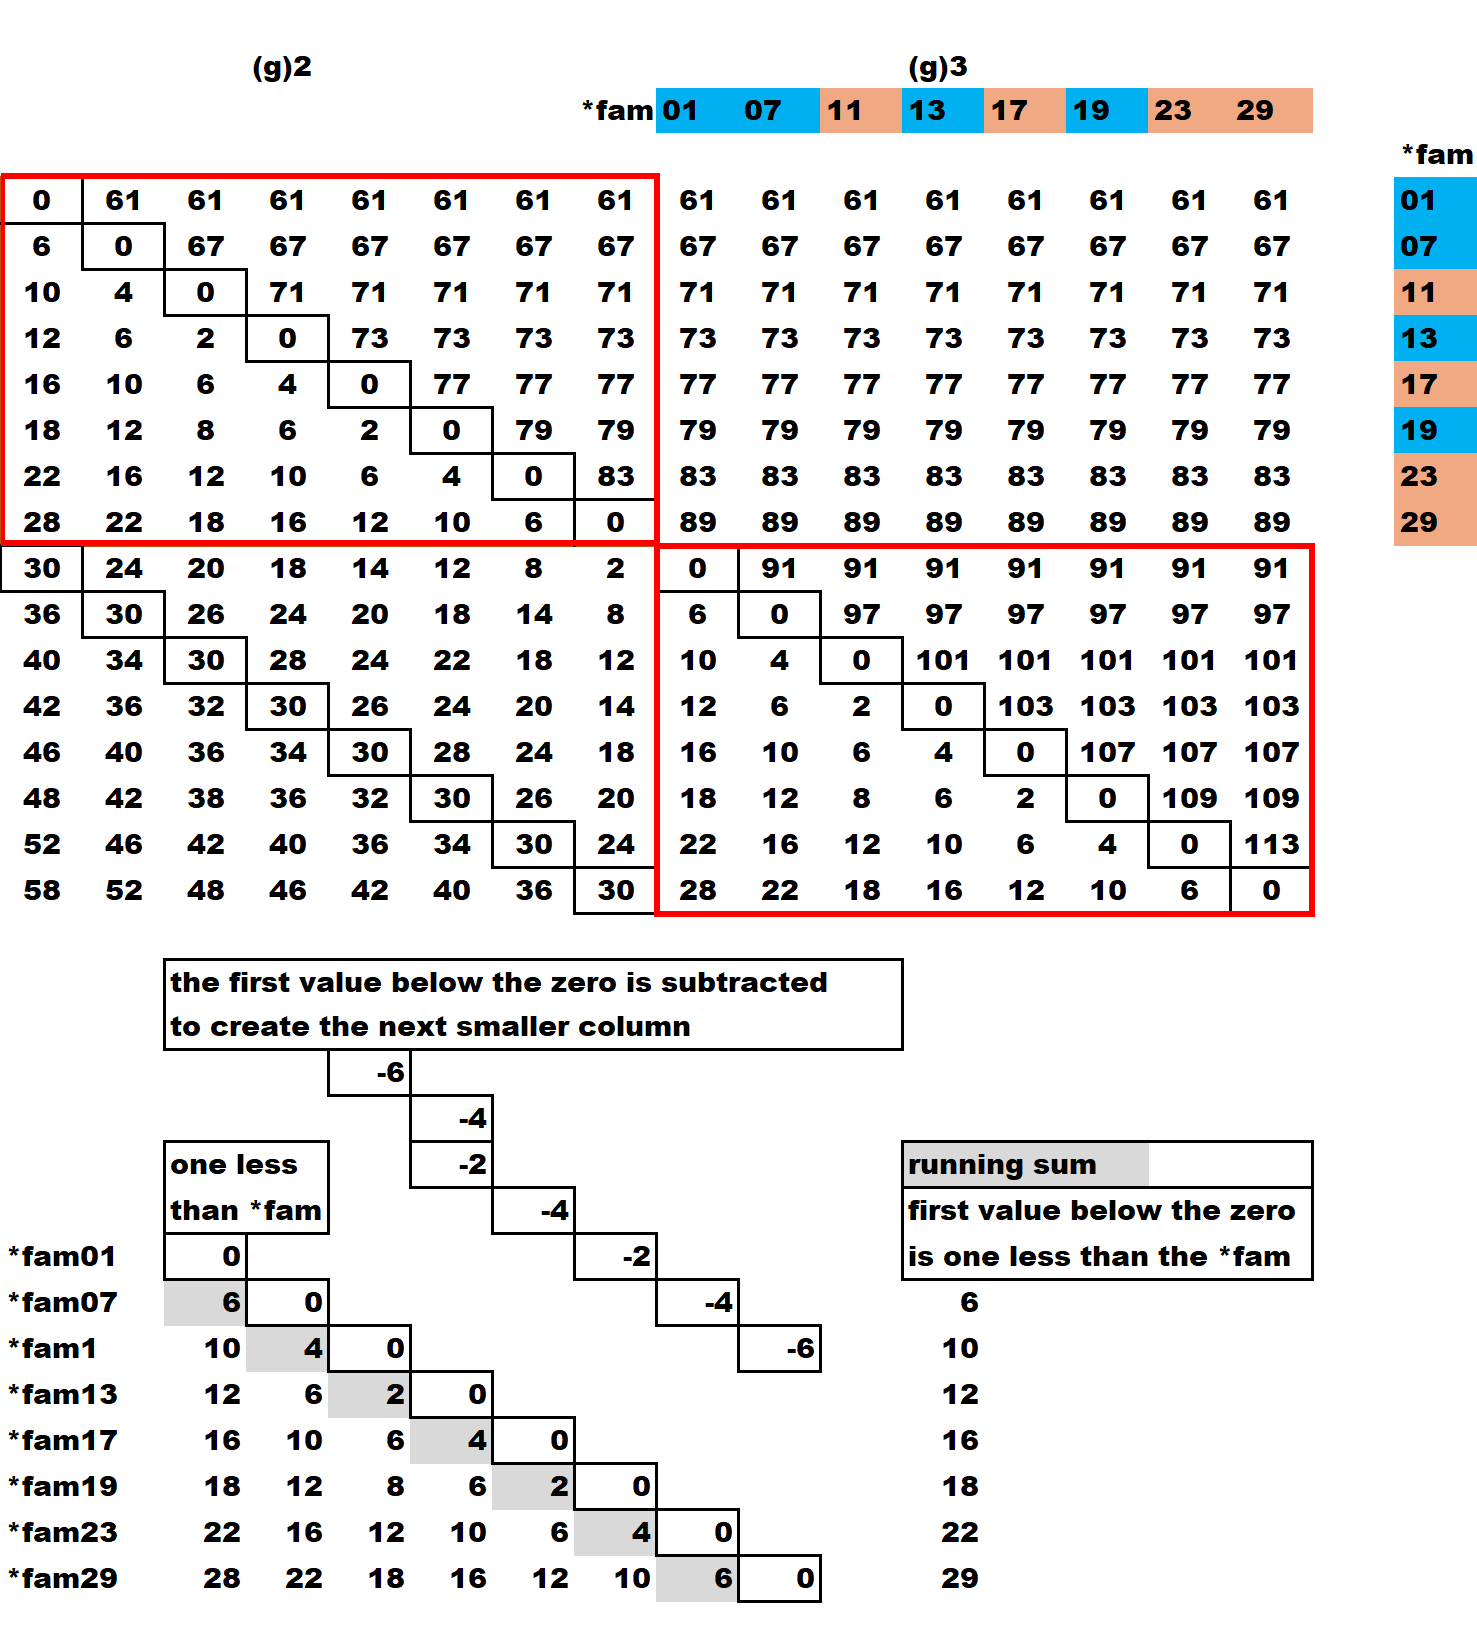
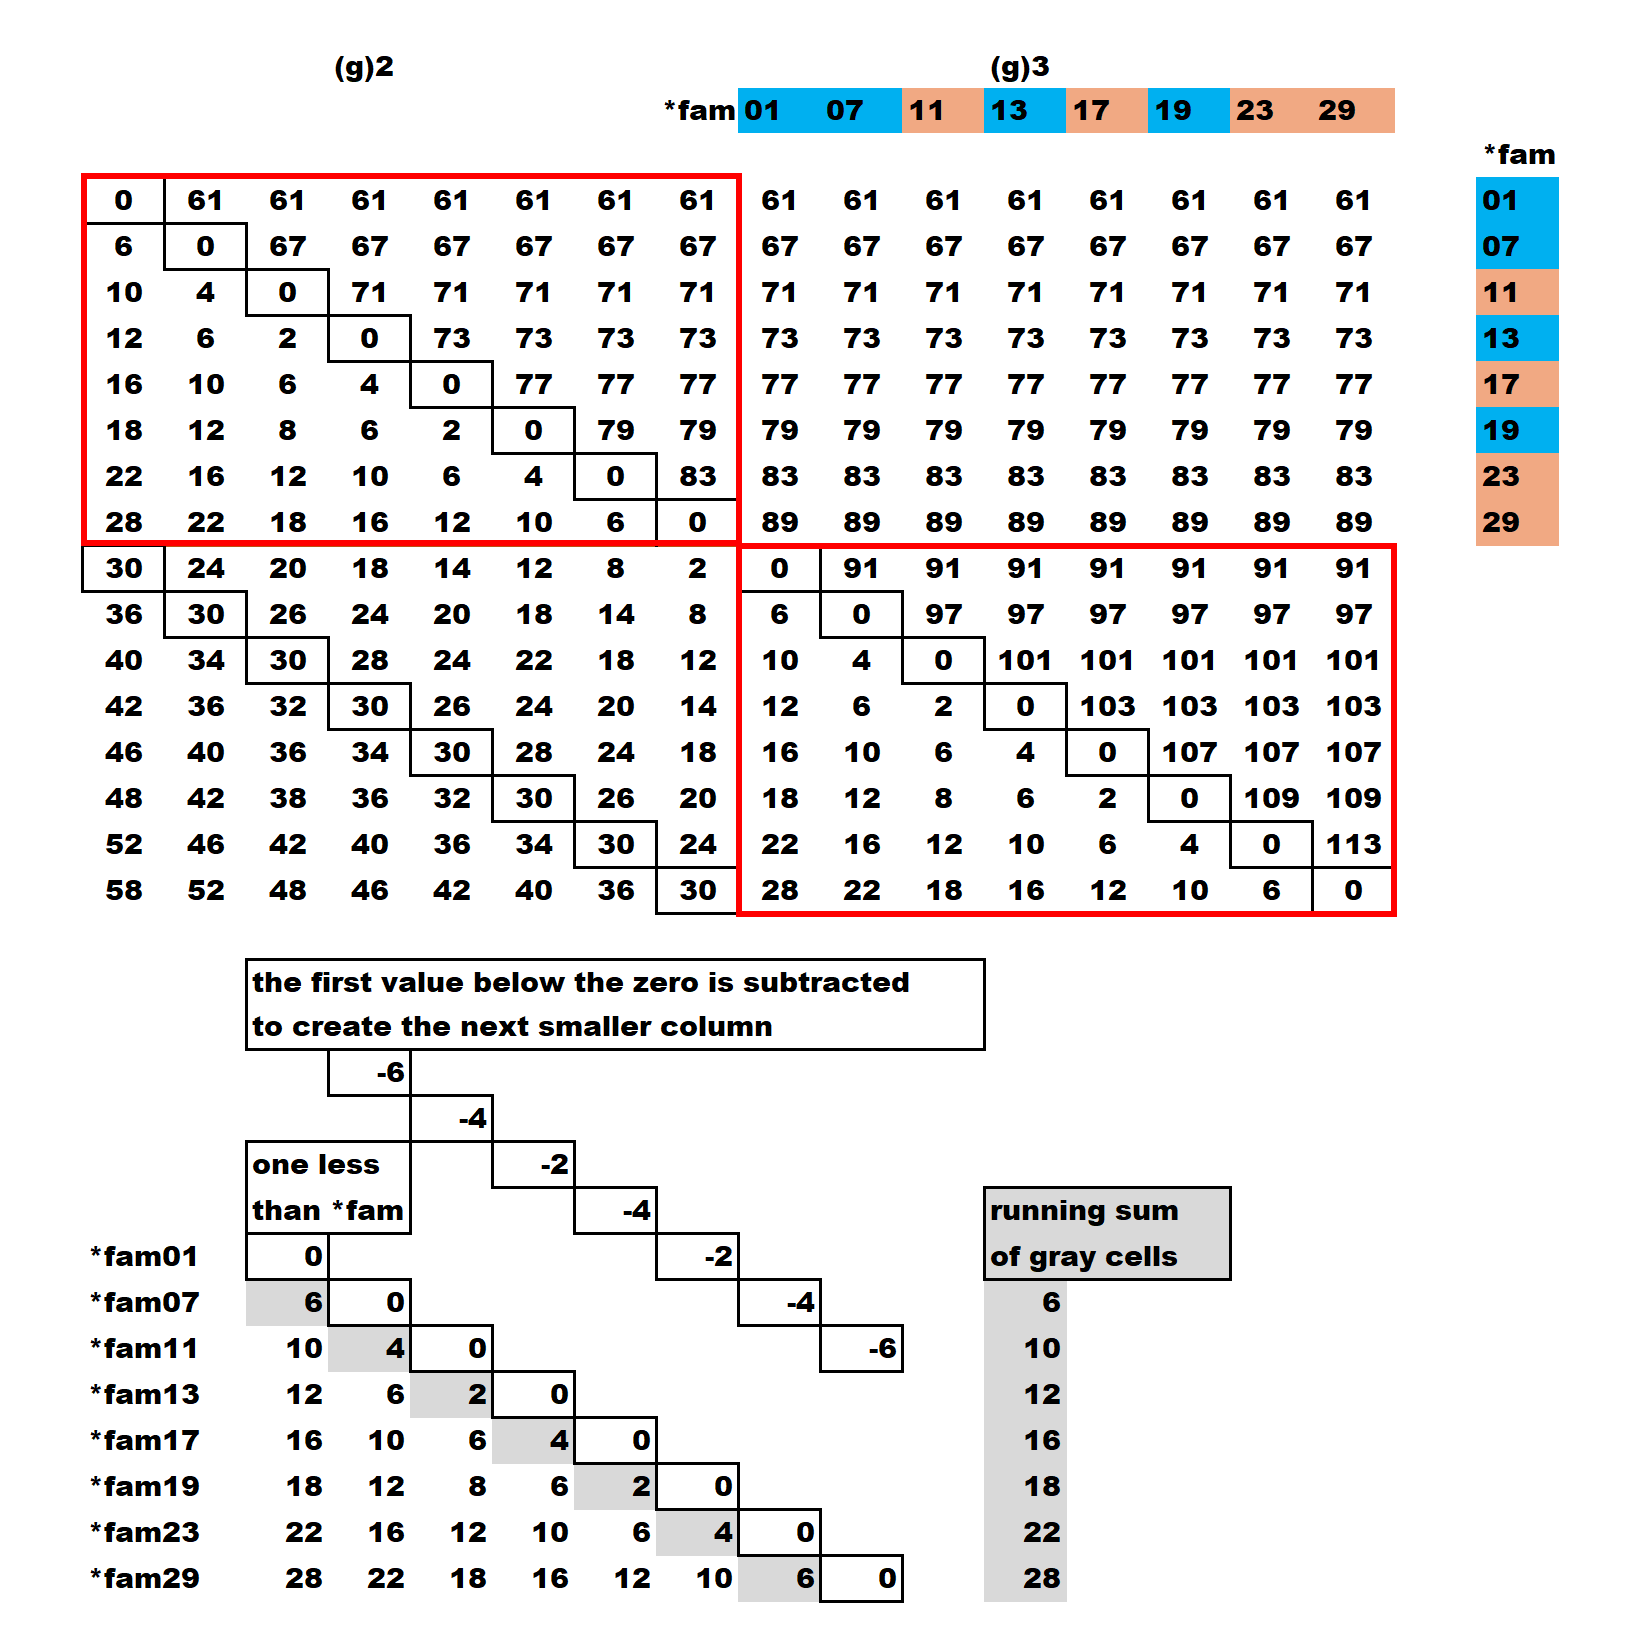
fix image

diff --git a/join0.html b/join0.html
@@ -287,6 +287,106 @@ In the large lower box . the area above the diagonal ; the difference between ea
 
    <p class="step" id="step-18" style="display: none;">
                       <!-- "step-18"   -->
+This is a close up of the transation from (g)2 to (g)3. There are several key pieces of information.
+<br><br>
+In first column of each red box , the values are one less than the *fam. 
+<br><br>
+Zero (0) is one less than *fam01 ; six (6) is one less than *fam07 , and on . . .
+<br><br>
+<!-- The first digit below the boxed diagonal zeros is subtracted from the row below it.
+6 is in the second row first column ; below it is 10 ; 10 - 6 makes 4 - the value in the third row second column.  -->
+<br><br>
+Look at the colored key on the right side ; there are the two groups of R and L.
+<br><br>
+In the R is { 0 , 6 , 12 , 18 } ; each six away from the prior.
+<br><br>
+In the L is { 10 , 16 , 22 , 28 } ; again six away.
+<br><br>
+In first column the difference is: 
+<br>
+{ 6 , 4 , 2 , 4 , 2 , 4 , 6 }
+<br><br>
+In the second column the difference is:
+<br>
+{ 4 , 2 , 4 , 2 , 4 ,6  } 
+<br><br>
+The third column the difference is:
+<br>
+{ 2 , 4 , 2 , 4 , 6  } 
+<br><br>
+The fourth column the difference is:
+<br>
+{ 4 , 2 , 4 , 6 }
+<br><br>
+The fifth is: 
+<br>
+{ 2 , 4 , 6 }
+<br><br>
+The sixth is:
+<br>
+{ 4 , 6}
+<br><br>
+The seventh is:
+<br>
+{ 6 }
+<br><br>
+<br><br>
+Taking the bottom row of
+<br>
+{ 28 , 22 , 18 , 16 , 12 , 10 , 6 , 0 }
+<br><br>
+The bottom row difference from left to right is: 
+<br>
+{ 6 , 4 , 2 , 4 , 2 , 4 , 6 }
+<br><br>
+<!-- Index up one row , second from bottom is { 22 , 18 , 16 , 12 , 10 , 6 , 0 }  -->
+<!-- <br><br> -->
+Difference second row from bottom is:
+<br>
+{ 6 , 4 , 2 , 4 , 2 , 4 }
+<br><br>
+
+<!-- Up two rows is { 18 , 12 , 8 , 6 , 2 , 0	} -->
+<!-- <br><br> -->
+Difference third row from bottom is:
+<br>
+{ 6 , 4 , 2 , 4 , 2}
+<br><br>
+
+<!-- Up three rows is { 16 , 12 , 10 , 6 , 0	} -->
+<!-- <br><br> -->
+Difference four from bottom is:
+<br>
+{ 6 , 4 , 2 , 4 }
+<br><br>
+<!-- Up four rows is { 12 , 6 , 2 } -->
+<!-- <br><br> -->
+Difference , five rows from bottom is:
+<br>
+{ 6 , 4 , 2  }
+<br><br>
+Difference six rows from bottom is:
+<br>
+{ 6 , 4  }
+<br><br>
+Difference seven rows from bottom is:
+<br>
+{ 6  }
+<br><br>
+<br><br>
+key symmetry and one digit disappears each level 
+<br><br>
+<br><br>
+start column { 6 , 4 , 2 , 4 , 2 , 4 , 6 } chop Left off
+<br><br>
+start row bottom { 6 , 4 , 2 , 4 , 2 , 4 , 6 } chop the right off
+<br><br>
+gray cell in diagonal make a running sum of 28 ; same as first column on left 
+<br><br>
+running sum equals first column
+<br><br>
+<br><br>
+
    </p>
 
    <p class="step" id="step-19" style="display: none;">
